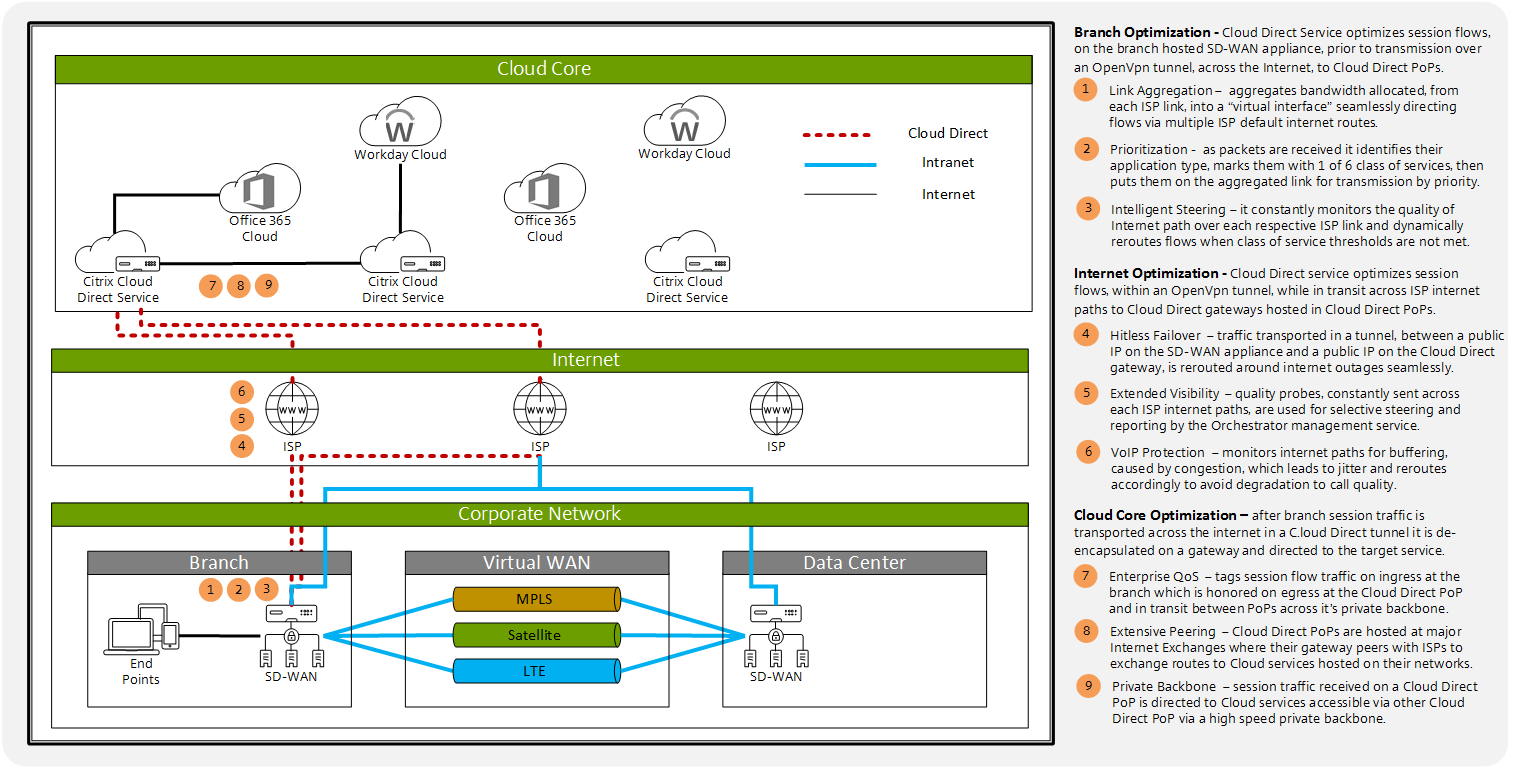
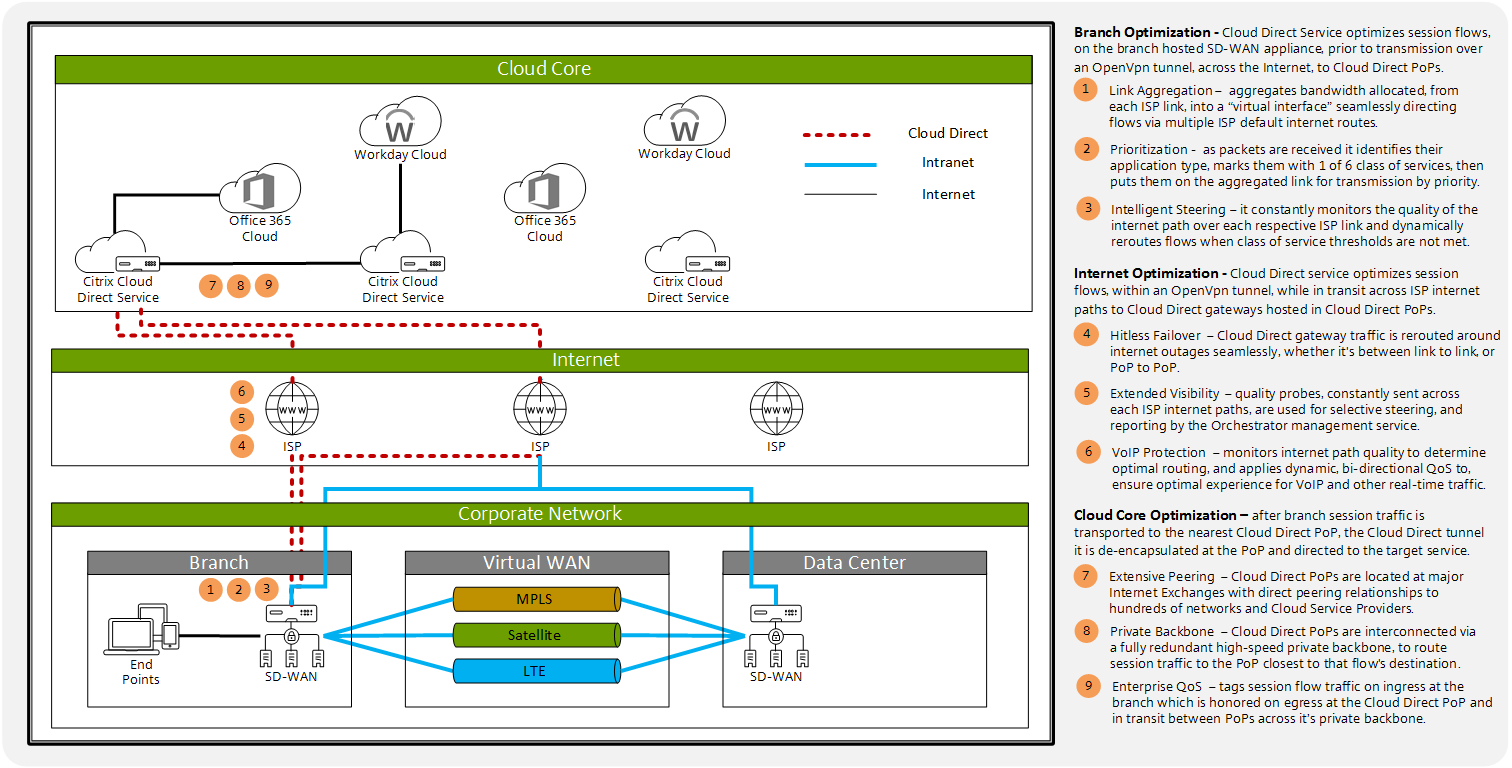
Various fixes. Due to Git conflicts, had to recreate whole branch from MattB

diff --git a/en-us/tech-zone/learn/tech-briefs/sdwan-cloud-direct.md b/en-us/tech-zone/learn/tech-briefs/sdwan-cloud-direct.md
@@ -3,19 +3,19 @@ layout: doc
 description: Optimize SaaS access for branch users by tunneling session traffic to Internet Exchanges with direct connectivity to popular sites.
 ---
 
-# Citrix SD-WAN Cloud Direct service overview
+# Citrix SD-WAN Cloud Direct overview
 
 ## Contributors
 
 **Author:** [Matthew Brooks](https://twitter.com/tweetmattbrooks)
 
-**Special Thanks:**  Mark King, Daniel Feller
+**Special Thanks:**  Karthick Srivatsan, Mark King, Daniel Feller
 
-The Cloud Direct service extends Citrix SD-WAN optimal routing and delivery optimization benefits to SaaS. The service tunnels branch office endpoint traffic, to the front door of popular SaaS sites, via PoPs hosted at major Internet Exchanges.
+Citrix SD-WAN Cloud Direct extends Citrix SD-WAN optimal routing and delivery optimization benefits to SaaS. The service tunnels branch office endpoint traffic, to the front door of popular SaaS sites, via PoPs hosted at major Internet Exchanges.
 
-[![Citrix SD-WAN Cloud Direct Service](/en-us/tech-zone/learn/media/tech-briefs_sdwan-cloud-direct_SDWAN-CDs.png)](/en-us/tech-zone/learn/media/tech-briefs_sdwan-cloud-direct_SDWAN-CDs.png)
+[![Citrix SD-WAN Cloud Direct](/en-us/tech-zone/learn/media/tech-briefs_sdwan-cloud-direct_SDWAN-CDs.png)](/en-us/tech-zone/learn/media/tech-briefs_sdwan-cloud-direct_SDWAN-CDs.png)
 
-The [Cloud Direct service](https://docs.citrix.com/en-us/citrix-sd-wan-center/11/cloud-direct-service.html) virtually bundles multiple branch office internet access links such as DSL, Cable, and LTE. It creates redundant UDP tunnels. On one end is a Cloud Direct service process, hosted on branch office SD-WAN appliances. On the other end are gateways hosted in Cloud Direct service PoPs. The gateways are hosted in Points of Presence (PoP) at Internet Exchanges, near popular SaaS sites. It is able to utilize and monitor each link within the bundles to mitigate against data link or network issues in the first mile. The first mile is the segment of the circuit between the branch office and the ISP PoP where issues often occur. Further it aides with optimal transport of sessions throughout their path across the internet to target sites in the cloud.
+[Citrix SD-WAN Cloud Direct](/en-us/citrix-sd-wan-center/11/cloud-direct-service.html) virtually bundles multiple branch office internet access links such as DSL, Cable, and LTE. It creates redundant UDP tunnels. On one end is a Citrix SD-WAN Cloud Direct process, hosted on branch office SD-WAN appliances. On the other end are gateways hosted in Citrix SD-WAN Cloud Direct PoPs. The gateways are hosted in Points of Presence (PoP) at Internet Exchanges, near popular SaaS sites. It is able to utilize and monitor each link within the bundles to mitigate against data link or network issues in the first mile. The first mile is the segment of the circuit between the branch office and the ISP PoP where issues often occur. Further it aides with optimal transport of sessions throughout their path across the internet to target sites in the cloud.
 
 It can protect delivery sensitive VoIP traffic by applying bi-directional quality-of-service (QoS) prioritization and shaping with class-of-service (CoS) tags. It sends that marked traffic through the links with the least latency, loss, and jitter, improving the [mean opinion score (MOS)](https://en.wikipedia.org/wiki/Mean_opinion_score). In parallel it automatically identifies other traffic types and applies pertinent QoS tags to map to one of six classes of service. Then, it prioritizes traffic for egress transmission. Once on the Cloud Direct network infrastructure that traffic is transported, according to its CoS marking, over a high-speed private delivery network.
 
@@ -25,7 +25,7 @@ When Enterprises subscribe to SaaS services in the cloud, they can expect to hav
 
 ### Cloud Era Application to SaaS Migration
 
-Enterprises continue to adopt SaaS applications in lieu of traditional hosted applications. In fact, many organizations host business critical applications on SaaS, therefore ensuring enterprise reliability and performance is a key consideration.
+Enterprises continue to adopt SaaS applications in lieu of traditional hosted applications. As these applications become more business critical, ensuring enterprise reliability and performance is a key consideration.
 
 ### SaaS backhauled via the Data Center
 
@@ -37,6 +37,8 @@ Individual applications can be routed directly to the internet, to reduce latenc
 
 ### SaaS via Citrix SD-WAN Cloud Direct
 
+Citrix SD-WAN Cloud Direct provides optimal SaaS access for distributed branch offices.
+
 SaaS apps are deployed across multiple cloud locations globally. Cloud Direct PoPs are strategically located at major internet and cloud service provider exchanges. There they have reach to thousands of SaaS applications and networks, enabling higher performance, connectivity, and service reliability.
 
 #### Best Effort Internet
@@ -44,8 +46,8 @@ SaaS apps are deployed across multiple cloud locations globally. Cloud Direct Po
 Accessing business critical SaaS applications over the internet is problematic since traffic delivery over the internet is best effort by default. It is a collection of service providers connected using various network equipment, administrators, and circuits with varying levels of reliability. Therefore, SaaS connections are susceptible to disruption due to outages, oversubscription, and congestion.
 
 *  **Outage** – may be caused by various factors such as the failure of circuits from cuts due to unplanned digging, failure of equipment from anomalies, or failure of data centers from natural disasters.
-*  **Oversubscription** – lower tier providers depend on paid transit circuits to access certain cloud providers and SaaS sites. To minimize their costs, they may over subscribe those circuits routing more customer traffic bandwidth than there is capacity available causing packet loss, retransmission, and ultimately latency.
-*  **Congestion** – similarly, due to oversubscription or peak usage, ISP routes may need to buffer traffic destine over congested circuits which are at full transfer capacity. Accessing business critical SaaS applications over the internet is problematic since traffic delivery over the internet is best effort by default. It is a collection of service providers connected using various network equipment, administrators, and circuits with varying levels of reliability. Therefore, SaaS connections are susceptible to disruption due to outages, oversubscription, and congestion.
+*  **Oversubscription** – lower tier providers depend on paid transit circuits to access certain cloud providers and SaaS sites.  To minimize their costs, they may over subscribe those circuits routing more customer traffic bandwidth than there is capacity available causing packet loss, retransmission, and ultimately latency.
+*  **Congestion** – similarly, due to oversubscription or just peak usage, ISP routes may need to buffer traffic destine over congested circuits which are at full transfer capacity. Accessing business critical SaaS applications over the internet is problematic since traffic delivery over the internet is best effort by default. It is a collection of service providers connected using various network equipment, administrators, and circuits with varying levels of reliability. Therefore, SaaS connections are susceptible to disruption due to outages, oversubscription, and congestion.
 
 ![Best Effort Internet](/en-us/tech-zone/learn/media/tech-briefs_sdwan-cloud-direct_BestEffortInternet.PNG)
 
@@ -55,9 +57,9 @@ For branch office users to reach public SaaS services their sessions must traver
 
 Cloud Direct branch tunnels terminate into redundant Cloud Direct PoPs. These PoPs are purpose-built for reliability, performance, and optimal connectivity. Each PoP consists of scalable, fully redundant servers connected to carrier-grade switches and routers. They are connected to multiple upstream transit circuits and interconnected via a diverse and dedicated private high-speed backbone.
 
-Each Cloud Direct PoP is strategically located at key internet exchange points. There Cloud Direct PoPs collectively peer with over 150 cloud, content, and carrier networks. Therefore, the proximity of a customer’s branch to a Cloud Direct PoP is less important than the location of SaaS to a Cloud Direct PoP. SaaS traffic, destined to sites via Cloud Direct PoPs, benefits from traversing a private high-speed backbone that connects them together.
+Each Cloud Direct PoP is strategically located at key internet exchange points. There Cloud Direct PoPs each peer with over 150 cloud, content, and carrier networks. Therefore, the proximity of a customer’s branch to a Cloud Direct PoP is less important than the location of SaaS to a Cloud Direct PoP. SaaS traffic, destined to sites via Cloud Direct PoPs, benefits from traversing a private high-speed backbone that connects them together.
 
-With these capabilities the Cloud Direct service optimizes delivery over the path between branch offices and SaaS applications. There are 3 distinct parts of the path that the Cloud Direct service optimizes:
+With these capabilities Citrix SD-WAN Cloud Direct optimizes delivery over the path between branch offices and SaaS applications. There are 3 distinct parts of the path that Citrix SD-WAN Cloud Direct optimizes:
 
 *  Branch Office Optimization
 *  Internet Optimization
@@ -65,7 +67,7 @@ With these capabilities the Cloud Direct service optimizes delivery over the pat
 
 ### Branch – First Mile Circuits
 
-1st mile circuits are access links to ISPs that are typically lower speed, lower cost, and subsequently lower reliability compared to circuits used by large enterprise and data centers. While the Citrix SD-WAN appliances connect to the modems via ethernet the data link technologies vary including:
+1st mile circuits are access links to ISPs that are typically lower speed, lower cost, and subsequently lower reliability compared to circuits used by large enterprise and data centers. While the Citrix SD-WAN appliances connect to the modems via Ethernet the data link technologies vary including:
 
 *  **DSL** – is a family of technologies that are used to transmit digital data over telephone lines. The bit rate typically ranges from 256 kbps to over 100 Mbps and varies by upload and download speed depending on several factors.
 *  **Cable** – like DSL cable provides connectivity from the ISP to a branch office. And akin to how DSL is delivered over the telephone network infrastructure it is delivered over the cable television infrastructure. Download speeds range from 384 kbps to more than 50 Mbps.
@@ -73,7 +75,7 @@ With these capabilities the Cloud Direct service optimizes delivery over the pat
 
 ## Branch Optimization
 
-Branch office optimization occurs on the Citrix SD-WAN appliance located in the local office. Here it interfaces with the ISP access links. The physical and data link layers vary including DSL, Cable Modem, or Mobile LTE. They ultimately provide internet access on the network layer. The segment is typically the shortest portion of the overall journey to the cloud, however many issues can occur over it that can affect quality. The Cloud Direct service provides several features to optimize access at the branch.
+Branch office optimization occurs on the Citrix SD-WAN appliance located in the local office. Here it interfaces with the ISP access links. The physical and data link layers vary including DSL, Cable Modem, or Mobile LTE. They ultimately provide internet access on the network layer. The segment is typically the shortest portion of the overall journey to the cloud, however many issues can occur over it that can affect quality. Citrix SD-WAN Cloud Direct provides several features to optimize access at the branch.
 
 *  Link Aggregation
 *  Prioritization
@@ -83,15 +85,15 @@ Branch office optimization occurs on the Citrix SD-WAN appliance located in the 
 
 ![Link Aggregation](/en-us/tech-zone/learn/media/tech-briefs_sdwan-cloud-direct_BO-LnkAgr.png)
 
-With link aggregation, the Citrix SD-WAN appliance treats up to four links as a single bundle and load balances traffic according to capacity. A typical router can have multiple default routes to each respective ISP. It may only select one as the active primary, or route traffic across multiple routes unevenly.
+Citrix SD-WAN Cloud Direct can aggregate up to four Internet links as a single bundle and load balance traffic according to capacity. A typical router could have multiple default routes to each respective ISP. It may only select one as the active primary, or route traffic across multiple routes unevenly.
 
-Citrix SD-WAN can allocate a fixed portion of each circuit to the Cloud Direct service or general internet use. Cloud Direct utilizes all available bandwidth allocated to the service. Probes continuously monitor availability. Upon detecting a link outage, the “virtual” aggregated circuit is condensed by removing the “bad link” from the bundle, and rerouting sessions over “good links”. Sessions are rerouted at the network layer avoiding interruption to user sessions.
+Citrix SD-WAN can allocate a fixed portion of each circuit to Citrix SD-WAN Cloud Direct or general internet use. Cloud Direct utilizes all available bandwidth allocated to the service. Probes continuously monitor availability. Upon detecting a link outage, the “virtual” aggregated circuit is condensed by removing the “bad link” from the bundle, and rerouting sessions over “good links”. Sessions are rerouted at the network layer avoiding interruption to user sessions.
 
 ### Prioritization
 
 ![Prioritization](/en-us/tech-zone/learn/media/tech-briefs_sdwan-cloud-direct_BO-Priori.png)
 
-Traditionally branch routers may transmit traffic on a First-In-First-Out basis, or otherwise rely on prioritization tags coming from the LAN which may be inconsistent or inexistent. The Citrix SD-WAN appliance hosted Cloud Direct service process prioritizes egress transmission queues according to CoS. On reception they automatically identify traffic by 1 of 6 types, apply a QoS tag, and prioritize for appropriate handling.
+Traditionally branch routers may transmit traffic on a First-In-First-Out basis, or otherwise rely on prioritization tags coming from the LAN which may be inconsistent or inexistent. Citrix SD-WAN Cloud Direct identifies, prioritizes, and tags traffic into 1 of 6 classes of service to be processed accordingly throughout Citrix SD-WAN Cloud Direct infrastructure. This happens in both directions, automatically.
 
 The traffic is prioritized according to class. This ensures that the highest priority sessions are sent to the egress transmit queues first. The limited bandwidth of the local DSL, Cable, or LTE access links may be the bottleneck over the entire path to the cloud. Therefore, ensuring appropriate prioritization of traffic is critical to delivering maximum end-to-end QoS.
 
@@ -99,14 +101,13 @@ The traffic is prioritized according to class. This ensures that the highest pri
 
 ![Intelligent Steering](/en-us/tech-zone/learn/media/tech-briefs_sdwan-cloud-direct_BO-IntStr.png)
 
-Traditionally branch routers consider a link “up” state indication that it can handle the full bandwidth associated with the interface, irrespective of its actual throughput capability. The Cloud Direct service sends probes at 10 millisecond (ms) intervals over each link, constantly monitors latency, jitter, loss, congestion, and state.
+Traditionally branch routers consider a link “up” state indication that it can handle the full bandwidth associated with the interface, irrespective of its actual throughput capability. Citrix SD-WAN Cloud Direct sends probes at 10 millisecond (ms) intervals over each link to constantly monitors latency, jitter, loss, congestion, and state.
 
 Changes in state can vary between black out and brown out. A black out is when an entire link goes down. A brown out is when limited throughput or performance falls below the QoS that the class requires. When a state change is detected the service seamlessly reroutes sessions over to a “good” link. Intelligent steering avoids an impact to session connections, allowing it to maintain a good user experience.
 
 #### Peering
 
-Peering is a voluntary interconnection of internet autonomous systems to expedite traffic between hosted content and users. It is typically settlement-free meaning neither provider pays the other rather the access to each other’s routes is mutually beneficial.
-The average user or enterprise accessing the internet through a typical service provider must pass through several hops before reaching their desired destination. Having direct access to service providers with Extensive Peering agreements reduces their traffic hops and ultimately reduces their session latency.
+Peering is a voluntary interconnection of internet autonomous systems to expedite traffic between hosted content and users. The average user or enterprise accessing the internet through a typical service provider must pass through several hops before reaching their desired destination. Having direct access to service providers with Extensive Peering agreements reduces their traffic hops and ultimately reduces their session latency.
 
 *  **BGP** – the Border Gateway Protocol is the primary protocol use to exchange routes between ISPs and is the mechanism used to determine which traffic is passed as a result of peering agreements.
 *  **IX** – exchange points are typically large data centers where public peering takes place between providers over large switch fabrics.
@@ -116,7 +117,7 @@ The average user or enterprise accessing the internet through a typical service 
 
 ## Internet Optimization
 
-The general Internet lies between the branch office Citrix SD-WAN and Cloud Direct PoPs. Most of the segment is up to local ISPs to manage and traffic is typically transported as best effort with no quality or service level agreements. Nevertheless, the Cloud Direct service includes several benefits to optimize traffic while in route.
+The general Internet lies between the branch office Citrix SD-WAN and Cloud Direct PoPs. Most of the segment is up to local ISPs to manage and traffic is typically transported as best effort with no quality or service level agreements. Nevertheless, Citrix SD-WAN Cloud Direct includes several benefits to optimize traffic while in route.
 
 *  Hitless Failover
 *  Extended Visibility
@@ -126,28 +127,28 @@ The general Internet lies between the branch office Citrix SD-WAN and Cloud Dire
 
 ![Hitless Failover](/en-us/tech-zone/learn/media/tech-briefs_sdwan-cloud-direct_IO-Hitles.png)
 
-Sessions originated from the Cloud Direct service process, on the branch office hosted Citrix SD-WAN appliance, are transported across non-encrypted OpenVPN UDP based tunnels. The tunnels terminate on a primary Cloud Direct service PoP gateway, with a secondary PoP on standby. The tunnel source and destination both are always public IP addresses, assigned and managed by the Cloud Direct service.
+Sessions originated from the Citrix SD-WAN Cloud Direct process, on the branch office hosted Citrix SD-WAN appliance, are transported across non-encrypted OpenVPN UDP based tunnels. The tunnels terminate on a primary Cloud Direct service PoP gateway, with a secondary PoP on standby. The tunnel source and destination both are always public IP addresses, assigned and managed by Citrix SD-WAN Cloud Direct.
 
 On the branch Citrix SD-WAN appliance the tunnel is sourced from a fixed LAN side public IP address. Each ISP circuit, connected to the SD-WAN appliance, directs traffic over a different path across the internet to the Cloud Direct PoP. When a failure occurs over one path, Cloud Direct reroutes sessions over one of the other available paths at the network layer.
 
-The Cloud Direct service advertises a route to the tunnel end point from a secondary PoP via BGP with a lower preference. If a failure occurred at the primary Cloud Direct service PoP the secondary site would become the route once the change converged over the internet.
+Citrix SD-WAN Cloud Direct advertises a route to the tunnel end point from a secondary PoP via BGP with a lower preference. If a failure occurred at the primary Cloud Direct service PoP the secondary site would become the route once the change converged over the internet.
 
-Thus, with Hitless Failover, transport or application layer protocols are unaware of the outage. Subsequently sessions do not incur typical delay to get reestablished at those layers, and the user experience is not impacted. This benefit applies to various session types including VPN, virtual desktop, SSH, VoIP, or Web Conference sessions.
+Thus, with Hitless Failover, transport or application layer protocols are unaware of the outage. Later sessions do not incur typical delay to get reestablished at those layers, and the user experience is not impacted. This benefit applies to various session types including VPN, virtual desktop, SSH, VoIP, or Web Conference sessions.
 
 ### Extended Visibility
 
 ![Extended Visibility](/en-us/tech-zone/learn/media/tech-briefs_sdwan-cloud-direct_IO-ExtVis.png)
 
-Enterprises have some visibility of traffic statistics between the branch and their respective ISP PoPs yet are limited beyond their first mile circuits. The Cloud Direct service provides traffic details including latency, loss, jitter, and throughput. The service has visibility across the tunnel path between the Citrix SD-WAN appliance and the PoP gateway.
+Enterprises have some visibility of traffic statistics between the branch and their respective ISP PoPs yet are limited beyond their first mile circuits. Citrix SD-WAN Cloud Direct provides traffic details including latency, loss, jitter, and throughput. The service has visibility across the tunnel path between the Citrix SD-WAN appliance and the PoP gateway.
 
-The Cloud Direct service also provides reporting on performance statistics:
+Citrix SD-WAN Cloud Direct also provides reporting on performance statistics:
 
-*  Total uptime improvement – additional time of internet availability as a result of the Cloud Direct service intervention
+*  Total uptime improvement – extra time of internet availability as a result of Citrix SD-WAN Cloud Direct intervention
 *  QoS adaptations – the volume of intelligent path changes to protect sensitive traffic like VoIP
 *  Major Issues Fixed – the number of circuit blackout or brownouts avoided by intelligent routing
 *  Circuit Performance - Overall % uptime for each circuit and aggregate time of major and minor issues incurred respectively
 
-Administrators have the ability to view this data on per day/week/month via [SD-WAN Orchestrator](https://docs.citrix.com/en-us/citrix-sd-wan-orchestrator.html). They can also have a report emailed regularly.
+Administrators have the ability to view this data on per day/week/month via [SD-WAN Orchestrator](/en-us/citrix-sd-wan-orchestrator.html). They can also have a report emailed regularly.
 
 ### VoIP Protection
 
@@ -169,7 +170,7 @@ Depending on the application Enterprise network traffic has different QoS requir
 
 ## Cloud Core Optimization
 
-At the Cloud Direct service PoP, the OpenVPN tunnel that was originated at the branch office is de-encapsulated. Thereafter it delivered to the destination cloud provider that hosts the target SaaS site. The Cloud Direct service provides several benefits to transport traffic efficiently across this last segment:
+At the Citrix SD-WAN Cloud Direct PoP, the OpenVPN tunnel that was originated at the branch office is de-encapsulated. Thereafter the traffic is delivered to the destination cloud provider that hosts the target SaaS site. Citrix SD-WAN Cloud Direct provides several benefits to transport traffic efficiently across this last segment:
 
 *  Enterprise QoS
 *  Extensive Peering
@@ -188,19 +189,19 @@ Upon reception of packets, the Citrix SD-WAN appliance hosted Cloud Direct servi
 5.  Bulk Data (Netflix, Dropbox)
 6.  Other
 
-Packets originated at the branch office are transported across the Cloud Direct service tunnel. Then at the PoP, on the far end, they routed to the target SaaS site via the shortest path. If they traverse the Cloud Direct private backbone, QoS tags are honored, as packets are transferred hop-to-hop.
+Packets originated at the branch office are transported across the Citrix SD-WAN Cloud Direct tunnel. Then at the PoP, on the far end, they routed to the target SaaS site via the shortest path. If they traverse the Cloud Direct private backbone, QoS tags are honored, as packets are transferred hop-to-hop.
 
 ### Extensive Peering
 
 ![Extensive Peering](/en-us/tech-zone/learn/media/tech-briefs_sdwan-cloud-direct_CO-ExPeer.png)
 
-The Cloud Direct service has over 150 peering agreements with premium cloud and service providers. With the access these peers offer the service is able to provide efficient paths, reducing latency for branch users accessing SaaS sites. When PoP gateways check their route tables, they often find the shortest path to the target site a few hops away.
+Each Citrix SD-WAN Cloud Direct PoP has over 150 peering agreements with premium cloud and service providers. With the access these peers offer the service is able to provide efficient paths, reducing latency for branch users accessing SaaS sites. When PoP gateways check their route tables, they often find the shortest path to the target site a few hops away.
 
 ### Private Backbone
 
 ![Private Backbone](/en-us/tech-zone/learn/media/tech-briefs_sdwan-cloud-direct_CO-PrivBB.png)
 
-The Cloud Direct service PoPs are connected by a private backbone with redundant high-speed circuits. The private backbone allows it to honor traffic with QoS tags appropriately. The private backbone also allows it to deliver it without typical best effort internet challenges such as oversubscription, congestion, and outage. The primary PoP gateway routes traffic, over the private backbone, to the PoP with the shortest path.
+Citrix SD-WAN Cloud Direct PoPs are connected by a private backbone with redundant high-speed circuits. The private backbone allows it to honor traffic with QoS tags appropriately. The private backbone also allows it to deliver it without typical best effort internet challenges such as oversubscription, congestion, and outage. The primary PoP gateway routes traffic, over the private backbone, to the PoP with the shortest path.
 
 #### As a Service
 
@@ -213,7 +214,7 @@ A solution that helps you optimize productivity with universal access to Virtual
 
 ## Use Cases
 
-Citrix SD-WAN is a powerful networking technology that provides optimal routing across all available paths. With the addition of the Cloud Direct service it provides premium transport over the public internet including enterprise-grade reliability and performance. Let’s discuss some use cases where it provides the most benefits.
+Citrix SD-WAN is a powerful networking technology that provides optimal routing across all available paths. With the addition of Cloud Direct functionality, it provides premium transport over the public internet including enterprise-grade reliability and performance. Let’s discuss some use cases where it provides the most benefits.
 
 *  SaaS
 *  UCaaS
@@ -221,18 +222,18 @@ Citrix SD-WAN is a powerful networking technology that provides optimal routing 
 
 ### SaaS
 
-The Cloud Direct service has several benefits for access to SaaS. It provides link load-balancing for up to four customer-provided Internet circuits. It helps ensure quality with bi-directional application aware QoS. It includes resiliency with link-to-link and PoP-to-PoP same-IP failover. It provides visibility with real-time service monitoring with benefit reporting.
+Citrix SD-WAN Cloud Direct has several benefits for access to SaaS. It provides link load-balancing for up to four customer-provided Internet circuits. It helps ensure quality with bi-directional application aware QoS. It includes resiliency with link-to-link and PoP-to-PoP same-IP failover. It provides visibility with real-time service monitoring with benefit reporting.
 
-The performance and reliability benefit the service provides decrease the further the SaaS sites and branch offices are from Cloud Direct PoPs. More hops increase the length of the Cloud Direct tunnel to the customer’s branch site. In those cases, traffic may be routed directly, over the internet rather than through the Cloud Direct service, with simple application routing rules. For example, customers with branch sites in China, accessing SaaS applications within China, should not send that traffic through the Cloud Direct network. When those sites need to access SaaS applications hosted in either the US or Western Europe, sending that traffic through the Cloud Direct service can result in better performance and reliability.
+The performance and reliability benefit the service provides decrease the further the SaaS sites and branch offices are from Cloud Direct PoPs. More hops increase the length of the Cloud Direct tunnel to the customer’s branch site. In those cases, traffic may be routed directly, over the internet rather than through Citrix SD-WAN Cloud Direct, with simple application routing rules. For example, customers with branch sites in China, accessing SaaS applications within China, should not send that traffic through the Cloud Direct network. When those sites need to access SaaS applications hosted in either the US or Western Europe, sending that traffic through Citrix SD-WAN Cloud Direct can result in better performance and reliability.
 
 ### UCaaS
 
-The Cloud Direct service has several benefits for access to UCaaS services. Sessions persist during outages in the communication path with hitless failover. The service monitors and dynamically switches internet paths when call quality degrades with VoIP Protection. It also maintains call quality with Enterprise QoS.
+Citrix SD-WAN Cloud Direct has several benefits for access to UCaaS services. Sessions persist during outages in the communication path with hitless failover. The service monitors and dynamically switches internet paths when call quality degrades with VoIP Protection. It also maintains call quality with Enterprise QoS.
 
-UCaaS includes VoIP based communication solutions such as Microsoft Teams and Skype. Call setup is done via one of multiple redundant sites hosted, across the globe, on the public internet. DNS queries are transported via the Cloud Direct service tunnel. The source of the query is the Cloud Direct service POP ensuring the nearest site is returned. After call setup the bearer traffic can be proxied via the same site. Alternatively, it may be set up directly to a peer on the intranet or internet. The Cloud Direct service ensures the session traffic is routed via the most efficient path.
+UCaaS includes VoIP based communication solutions such as Microsoft Teams and Skype. Call setup is done via one of multiple redundant sites hosted, across the globe, on the public internet. DNS queries are transported via the Citrix SD-WAN Cloud Direct tunnel. The source of the query is the Citrix SD-WAN Cloud Direct PoP ensuring the nearest site is returned. After call setup the bearer traffic can be proxied via the same site. Alternatively, it may be set up directly to a peer on the intranet or internet. Citrix SD-WAN Cloud Direct ensures the session traffic is routed via the most efficient path.
 
 ### DaaS
 
-The Cloud Direct service provides several benefits for [Citrix Virtual Apps and Desktops service](https://docs.citrix.com/en-us/citrix-virtual-apps-desktops.html) and [Citrix Managed Desktops](https://docs.citrix.com/en-us/citrix-managed-desktops.html) users to improve user experience. The service provides better user experience when links are congested. It also aggregates and steers traffic to avoid session outages when local access links fail.
+Citrix SD-WAN Cloud Direct provides several benefits for [Citrix Virtual Apps and Desktops service](/en-us/citrix-virtual-apps-desktops.html) and [Citrix Managed Desktops](/en-us/citrix-managed-desktops.html) users to improve user experience. The service provides better user experience when links are congested. It also aggregates and steers traffic to avoid session outages when local access links fail.
 
-Citrix Virtual Apps and Desktops and Citrix Managed Desktops VDAs may be hosted in various hybrid cloud locations. After a Citrix SD-WAN appliance identifies an HDX session (the delivery protocol) it checks all available virtual paths for the optimal route. If the session is mapped to the Cloud Direct service, its traffic is tagged as interactive. Then the session is prioritized and transported accordingly. Citrix SD-WAN with Cloud Direct service is the ideal solution to route and deliver Citrix Virtual Apps and Desktops and Citrix Managed Desktops optimally across the public internet.
+Citrix Virtual Apps and Desktops and Citrix Managed Desktops VDAs may be hosted in various hybrid cloud locations. After a Citrix SD-WAN appliance identifies an HDX session (the delivery protocol) it checks all available virtual paths for the optimal route. If the session is mapped to Citrix SD-WAN Cloud Direct, its traffic is tagged as interactive. Then the session is prioritized and transported accordingly. Citrix SD-WAN with Cloud Direct service is the ideal solution to route and deliver Citrix Virtual Apps and Desktops and Citrix Managed Desktops optimally across the public internet.
